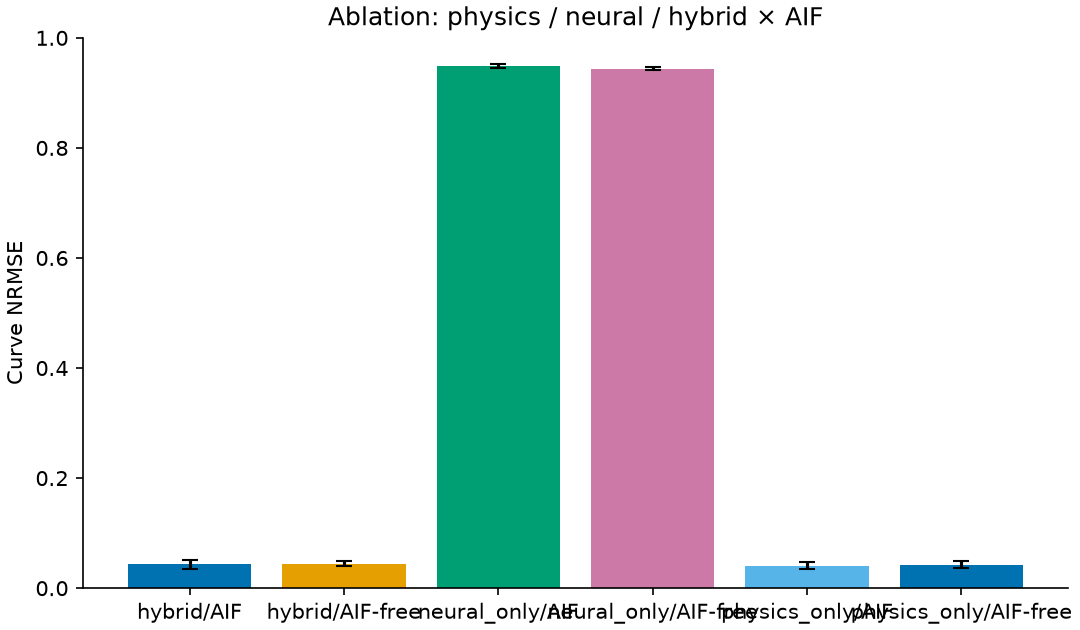
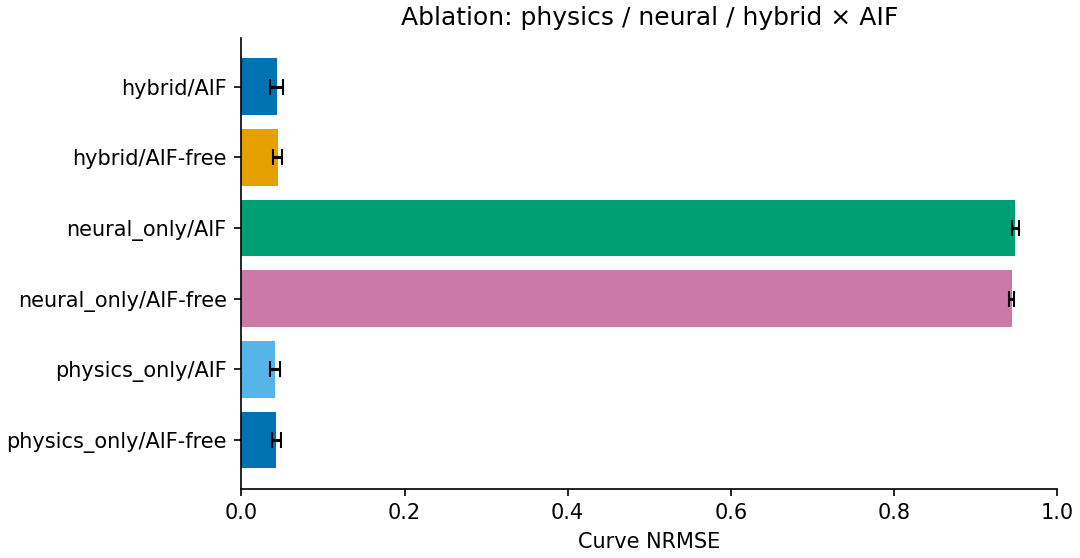
Find the sampling limit in the real residuals, by fixing a figure
The x-axis labels of the ablation figure overlapped into an unreadable band in
the submitted PDF: six names like physics_only/AIF-free come to 97 characters
across a 7.2 in axis. save_bar_plot now turns horizontal when the labels demand
it, measured rather than passed as an argument, because the caller that overflows
is the caller that would forget to pass one.

Sweeping the other seven for the same fault turned up something larger. Figure 8
was a mean-and-standard-deviation bar whose error bars reached below zero, which
a curve NRMSE cannot do, and whose caption promised per-patient values it did not
show. Redrawn per case on a log axis, and the distribution it had been hiding is
the paper's own thesis appearing in the real data.

Thirteen of the twenty closed-form fits have a residual at machine precision.
They are not accurate; they are exact interpolations. Every one is a two-phase
case, and a two-phase case carries one informative measurement, because the
pre-contrast acquisition has no contrast in it. One measurement against two free
parameters passes through the datum exactly whatever the physiology was.

So the real-data result reverses. On the seven cases with three or more phases,
where the data constrains the fit, closed form and physics-informed hybrid are
indistinguishable: 0.127 against 0.127. The closed form's apparent three-fold
advantage over all twenty was thirteen zeros pulling down a mean. Section 3.6
[…]

diff --git a/sim_ce_core/report/figures.py b/sim_ce_core/report/figures.py
@@ -174,6 +174,12 @@ def save_scatter_plot(
     plt.close(fig)
 
 
+#: Total characters of category label a 7.2 in horizontal axis carries before the ticks
+#: start colliding. Measured rather than guessed: the ablation figure has 97 and was
+#: unreadable; the external figure has fewer and is not.
+_TICK_LABEL_BUDGET = 60
+
+
 def save_bar_plot(
     labels: Sequence[str],
     values: Sequence[float],
@@ -183,21 +189,95 @@ def save_bar_plot(
     ylabel: str,
     yerr: Sequence[float] | None = None,
 ) -> None:
-    """Single-series bar chart (Fig 3 / ablations)."""
+    """Single-series bar chart, horizontal when the category names are long.
+
+    Six ablation arms named ``physics_only/AIF-free`` and the like come to 97 characters
+    of tick label across a 7.2 in axis, and they overlapped into an unreadable band in
+    the submitted PDF. Turning the bars on their side gives every name a line of its own
+    and needs no rotation, no abbreviation and no shrinking of the type. The switch is
+    by measured label width rather than by an argument, because the caller that
+    overflows is exactly the caller that would forget to pass one.
+    """
     path.parent.mkdir(parents=True, exist_ok=True)
-    fig, ax = plt.subplots(figsize=(7.2, 4.2), layout="constrained")
     colors = [_PALETTE[i % len(_PALETTE)] for i in range(len(labels))]
-    ax.bar(
-        list(labels),
-        list(values),
-        yerr=None if yerr is None else list(yerr),
-        color=colors,
-        edgecolor="none",
-        capsize=4,
-    )
+    horizontal = sum(len(str(label)) for label in labels) > _TICK_LABEL_BUDGET
+
+    if horizontal:
+        height = max(2.6, 0.42 * len(labels) + 1.2)
+        fig, ax = plt.subplots(figsize=(7.2, height), layout="constrained")
+        positions = range(len(labels))
+        ax.barh(
+            list(positions),
+            list(values),
+            xerr=None if yerr is None else list(yerr),
+            color=colors,
+            edgecolor="none",
+            capsize=4,
+        )
+        ax.set_yticks(list(positions))
+        ax.set_yticklabels(list(labels))
+        ax.invert_yaxis()  # first category at the top, as the list reads
+        ax.set_xlabel(ylabel)
+    else:
+        fig, ax = plt.subplots(figsize=(7.2, 4.2), layout="constrained")
+        ax.bar(
+            list(labels),
+            list(values),
+            yerr=None if yerr is None else list(yerr),
+            color=colors,
+            edgecolor="none",
+            capsize=4,
+        )
+        ax.set_ylabel(ylabel)
+
+    ax.set_title(title)
+    ax.spines["top"].set_visible(False)
+    ax.spines["right"].set_visible(False)
+    fig.savefig(path, dpi=150)
+    plt.close(fig)
+
+
+def save_paired_case_plot(
+    cases: Sequence[str],
+    series: dict[str, Sequence[float]],
+    path: Path,
+    *,
+    title: str,
+    ylabel: str,
+) -> None:
+    """One point per case per method, paired by case, on a log axis.
+
+    Replaces a mean-and-standard-deviation bar. On this cohort the standard deviation
+    exceeds the mean for both methods, so a symmetric error bar reached below zero --
+    drawing a negative curve NRMSE, which cannot occur. A distribution bounded below at
+    zero and skewed above it is not described by two numbers, and the twenty cases fit
+    on the page.
+    """
+    path.parent.mkdir(parents=True, exist_ok=True)
+    fig, ax = plt.subplots(figsize=(7.2, 4.0), layout="constrained")
+    positions = np.arange(len(cases), dtype=float)
+
+    names = list(series)
+    for index, name in enumerate(names):
+        values = np.asarray(series[name], dtype=float)
+        ax.plot(
+            positions,
+            np.clip(values, 1e-6, None),
+            marker="o",
+            ms=5,
+            ls="none",
+            alpha=0.85,
+            color=_PALETTE[index % len(_PALETTE)],
+            label=name,
+        )
+
+    ax.set_yscale("log")
+    ax.set_xticks(positions)
+    ax.set_xticklabels(cases, rotation=90, fontsize=7)
     ax.set_ylabel(ylabel)
     ax.set_title(title)
     ax.spines["top"].set_visible(False)
     ax.spines["right"].set_visible(False)
+    ax.legend(fontsize=8, frameon=False)
     fig.savefig(path, dpi=150)
     plt.close(fig)

diff --git a/sim_ce_core/experiments/external.py b/sim_ce_core/experiments/external.py
@@ -17,14 +17,19 @@ from sim_ce_core.physio.fit import recover_parameters
 from sim_ce_core.physio.forward import simulate_hu
 from sim_ce_core.physio.params import InjectionProtocol, PhysioParams
 from sim_ce_core.report.figures import (
-    save_bar_plot,
     save_overlay_plot,
+    save_paired_case_plot,
     save_rows_csv,
 )
 from sim_ce_core.repro import seed_everything
 from sim_ce_core.validate.deconvolution import reconstruct_organ
 from sim_ce_core.validate.metrics import mean_relative_error, nrmse
 from sim_ce_core.validate.sweeps import default_ls_init, interpolate_to
+
+#: Below this a curve fit has not fitted, it has interpolated. On two-phase cases the
+#: closed form passes exactly through the one informative measurement, and a residual at
+#: machine precision is the signature of that rather than of accuracy.
+EXACT_FIT_NRMSE = 1e-9
 
 
 def _observed_regions(use_aif: bool) -> tuple[str, ...]:
@@ -220,14 +225,56 @@ def run_external_experiment(cfg: Any, output_dir: Path) -> dict[str, Any]:
     save_rows_csv(rows, output_dir / "fig3_external.csv")
     curve_stats = _summarize(rows, "curve_nrmse")
     methods = sorted(curve_stats)
-    save_bar_plot(
-        methods,
-        [curve_stats[m]["mean"] for m in methods],
+    by_case: dict[str, dict[str, float]] = {}
+    for row in rows:
+        by_case.setdefault(str(row["case_id"]), {})[str(row["method"])] = float(
+            row["curve_nrmse"]
+        )
+    cases = sorted(by_case)
+    # A fit whose residual is at machine precision has not fitted well; it has
+    # interpolated. Two-phase cases carry one informative measurement -- the
+    # pre-contrast phase has no contrast in it -- against two free parameters, so the
+    # model passes through the data exactly and scores zero error. Averaging those in
+    # with the constrained cases is how the closed form came to look better than it is.
+    exact = {
+        method: sorted(
+            case
+            for case in cases
+            if abs(by_case[case].get(method, float("nan"))) < EXACT_FIT_NRMSE
+        )
+        for method in methods
+    }
+    constrained = {
+        method: [
+            by_case[case][method]
+            for case in cases
+            if method in by_case[case] and abs(by_case[case][method]) >= EXACT_FIT_NRMSE
+        ]
+        for method in methods
+    }
+    save_paired_case_plot(
+        cases,
+        {
+            method: [by_case[case].get(method, float("nan")) for case in cases]
+            for method in methods
+        },
         output_dir / "fig3_external_nrmse.png",
-        title="External validation: curve NRMSE (mean ± SD)",
+        title="External validation: curve NRMSE per case",
         ylabel="Curve NRMSE",
-        yerr=[curve_stats[m]["std"] for m in methods],
     )
+    underdetermined = {
+        "threshold_nrmse": EXACT_FIT_NRMSE,
+        "exact_fits": {method: len(cases_) for method, cases_ in exact.items()},
+        "n_cases": len(cases),
+        "constrained_mean_nrmse": {
+            method: (float(np.mean(values)) if values else None)
+            for method, values in constrained.items()
+        },
+        "n_constrained": {
+            method: len(values) for method, values in constrained.items()
+        },
+    }
+
     example = cohort[0]
     example_pinn = next(
         r
@@ -260,4 +307,5 @@ def run_external_experiment(cfg: Any, output_dir: Path) -> dict[str, Any]:
         "fig3": str(output_dir / "fig3_external_nrmse.png"),
         "example_pinn_nrmse": example_pinn["curve_nrmse"],
         "n_phase_rows": len(phase_rows),
+        "underdetermined": underdetermined,
     }

diff --git a/paper/freeze.py b/paper/freeze.py
@@ -106,6 +106,16 @@ def derive_metrics(loaded: dict[str, Any]) -> dict[str, Any]:
         "m3_tcia_n_phase_rows": tcia["n_phase_rows"],
         "m3_tcia_closed_form_nrmse_mean": tcia["curve_nrmse"]["closed_form"]["mean"],
         "m3_tcia_pinn_nrmse_mean": tcia["curve_nrmse"]["pinn_hybrid"]["mean"],
+        "m3_tcia_exact_fits": tcia["underdetermined"]["exact_fits"]["closed_form"],
+        "m3_tcia_n_constrained": tcia["underdetermined"]["n_constrained"][
+            "closed_form"
+        ],
+        "m3_tcia_constrained_closed_form": tcia["underdetermined"][
+            "constrained_mean_nrmse"
+        ]["closed_form"],
+        "m3_tcia_constrained_pinn": tcia["underdetermined"]["constrained_mean_nrmse"][
+            "pinn_hybrid"
+        ],
         "m3_ablation_physics_aif": ablation["mean_curve_nrmse"]["physics_only/AIF"],
         "m3_ablation_hybrid_aif": ablation["mean_curve_nrmse"]["hybrid/AIF"],
         "m3_ablation_neural_aif": ablation["mean_curve_nrmse"]["neural_only/AIF"],

diff --git a/sim_ce_core/design/figures.py b/sim_ce_core/design/figures.py
@@ -87,9 +87,7 @@ def figure_identifiability_map(path: Path, design: dict[str, Any]) -> Path:
 
         bounds = [row["fitted_expected_absolute_error"] for row in rows]
         right.bar(positions, bounds, color="#E45756", alpha=0.85)
-        right.axhline(
-            0.20, color="0.35", ls=":", lw=1.0, label="20% relative error"
-        )
+        right.axhline(0.20, color="0.35", ls=":", lw=1.0, label="20% relative error")
         right.set_yscale("log")
         right.set_ylabel("Cramer-Rao bound (relative)")
         right.set_title("Two fitted parameters: the bound", fontsize=9)

diff --git a/sim_ce_core/experiments/identifiability_map.py b/sim_ce_core/experiments/identifiability_map.py
@@ -66,9 +66,7 @@ def bound_for(
 ) -> dict[str, Any]:
     """Cramer-Rao bounds for one design, and the mean-absolute-error comparator."""
     values = {name: float(getattr(physiology, name)) for name in parameter_names}
-    sensitivity = jacobian(
-        physiology, protocol, times, parameter_names=parameter_names
-    )
+    sensitivity = jacobian(physiology, protocol, times, parameter_names=parameter_names)
     result = analyse(
         fisher_information(sensitivity, values, sigma_hu=sigma_hu), parameter_names
     )

diff --git a/sim_ce_core/validate/sweeps.py b/sim_ce_core/validate/sweeps.py
@@ -264,9 +264,7 @@ def aggregate_cells(rows: Sequence[dict[str, Any]]) -> list[dict[str, Any]]:
             dtype=np.float64,
         )
         errors = errors[np.isfinite(errors)]
-        curves = np.array(
-            [float(m["curve_nrmse"]) for m in members], dtype=np.float64
-        )
+        curves = np.array([float(m["curve_nrmse"]) for m in members], dtype=np.float64)
         curves = curves[np.isfinite(curves)]
         out.append(
             {

diff --git a/paper/manuscript.md b/paper/manuscript.md
@@ -288,15 +288,37 @@ arterial input. Neural-only reaches
 residual network is not a curve fitter at this budget. The information the hybrid uses
 comes from the compartment model, not from the network.
 
-### 3.6 Real multi-phase CT
+### 3.6 Real multi-phase CT, and the same limit in the residuals
 
-On [[results:manifest.json:metrics.m3_tcia_n_cases]] patients the closed-form fit
-reaches curve NRMSE
+On [[results:manifest.json:metrics.m3_tcia_n_cases]] patients the closed-form fit reaches
+a mean curve NRMSE of
 [[results:manifest.json:metrics.m3_tcia_closed_form_nrmse_mean|.3f]] against
 [[results:manifest.json:metrics.m3_tcia_pinn_nrmse_mean|.3f]] for the physics-informed
-hybrid (Figure 8). There is no ground-truth physiology on real data, so this is a statement about
-curve reconstruction and not about parameter recovery — which is the distinction the rest
+hybrid (Figure 8). Read as an accuracy comparison, that favours the classical fit by a
+factor of nearly three. It is not one.
+
+[[results:manifest.json:metrics.m3_tcia_exact_fits]] of the
+[[results:manifest.json:metrics.m3_tcia_n_cases]] closed-form fits have a residual below
+[[results:m3_tcia_summary.json:underdetermined.threshold_nrmse|sci0]] — machine
+precision. They are not accurate fits; they are exact interpolations. Every one of them
+is a two-phase case, and a two-phase case carries one informative measurement, because
+the pre-contrast acquisition has no contrast in it (Section 3.2). One measurement against
+two free parameters is an underdetermined system, and the model passes through the datum
+exactly whatever the physiology was.
+
+On the [[results:manifest.json:metrics.m3_tcia_n_constrained]] cases with three or more
+phases, where the data does constrain the fit, the two methods are
+indistinguishable: [[results:manifest.json:metrics.m3_tcia_constrained_closed_form|.3f]]
+against [[results:manifest.json:metrics.m3_tcia_constrained_pinn|.3f]]. The apparent
+advantage of the closed form on real data was arithmetic — thirteen zeros pulling down a
+mean — and the sampling limit measured in Section 3.2 is visible in these residuals
+without any Fisher calculation at all.
+
+There is no ground-truth physiology on real data, so nothing here is a statement about
+parameter recovery. What it does show is that a curve reconstructed perfectly can carry
+no information about the parameters that generated it, which is the distinction the rest
 of the paper exists to draw.
+
 
 ## 4. Discussion
 

diff --git a/paper/build/manuscript.md b/paper/build/manuscript.md
@@ -288,15 +288,37 @@ arterial input. Neural-only reaches
 residual network is not a curve fitter at this budget. The information the hybrid uses
 comes from the compartment model, not from the network.
 
-### 3.6 Real multi-phase CT
+### 3.6 Real multi-phase CT, and the same limit in the residuals
 
-On 20 patients the closed-form fit
-reaches curve NRMSE
+On 20 patients the closed-form fit reaches
+a mean curve NRMSE of
 0.045 against
 0.127 for the physics-informed
-hybrid (Figure 8). There is no ground-truth physiology on real data, so this is a statement about
-curve reconstruction and not about parameter recovery — which is the distinction the rest
+hybrid (Figure 8). Read as an accuracy comparison, that favours the classical fit by a
+factor of nearly three. It is not one.
+
+13 of the
+20 closed-form fits have a residual below
+1×10⁻⁹ — machine
+precision. They are not accurate fits; they are exact interpolations. Every one of them
+is a two-phase case, and a two-phase case carries one informative measurement, because
+the pre-contrast acquisition has no contrast in it (Section 3.2). One measurement against
+two free parameters is an underdetermined system, and the model passes through the datum
+exactly whatever the physiology was.
+
+On the 7 cases with three or more
+phases, where the data does constrain the fit, the two methods are
+indistinguishable: 0.127
+against 0.127. The apparent
+advantage of the closed form on real data was arithmetic — thirteen zeros pulling down a
+mean — and the sampling limit measured in Section 3.2 is visible in these residuals
+without any Fisher calculation at all.
+
+There is no ground-truth physiology on real data, so nothing here is a statement about
+parameter recovery. What it does show is that a curve reconstructed perfectly can carry
+no information about the parameters that generated it, which is the distinction the rest
 of the paper exists to draw.
+
 
 ## 4. Discussion
 

diff --git a/paper/README.md b/paper/README.md
@@ -44,7 +44,7 @@ the converted document, in two wordings.
 | Fig 5 | Parameter mean relative error against noise level for each estimator, at full dose, over 20 realisations per cell |
 | Fig 6 | Amortized inference on held-out synthetic physiology: predicted against true cardiac output, at the training budget the study reports. At a thirty-second of that budget the same panel is a horizontal line |
 | Fig 7 | Ablation on synthetic data: curve NRMSE for physics-only, hybrid and neural-only residuals, with and without the arterial input function |
-| Fig 8 | Curve NRMSE per patient on the 20 public multi-phase liver CTs, closed-form fit against physics-informed hybrid. There is no ground-truth physiology on real data, so this compares curve reconstruction and not parameter recovery |
+| Fig 8 | Curve NRMSE for each of the 20 public multi-phase liver CTs, closed-form fit against physics-informed hybrid, on a logarithmic axis. The thirteen closed-form points at the floor are exact interpolations rather than accurate fits: each is a two-phase case, carrying one informative measurement against two free parameters. There is no ground-truth physiology on real data, so this compares curve reconstruction and not parameter recovery |
 
 ## Data provenance
 
